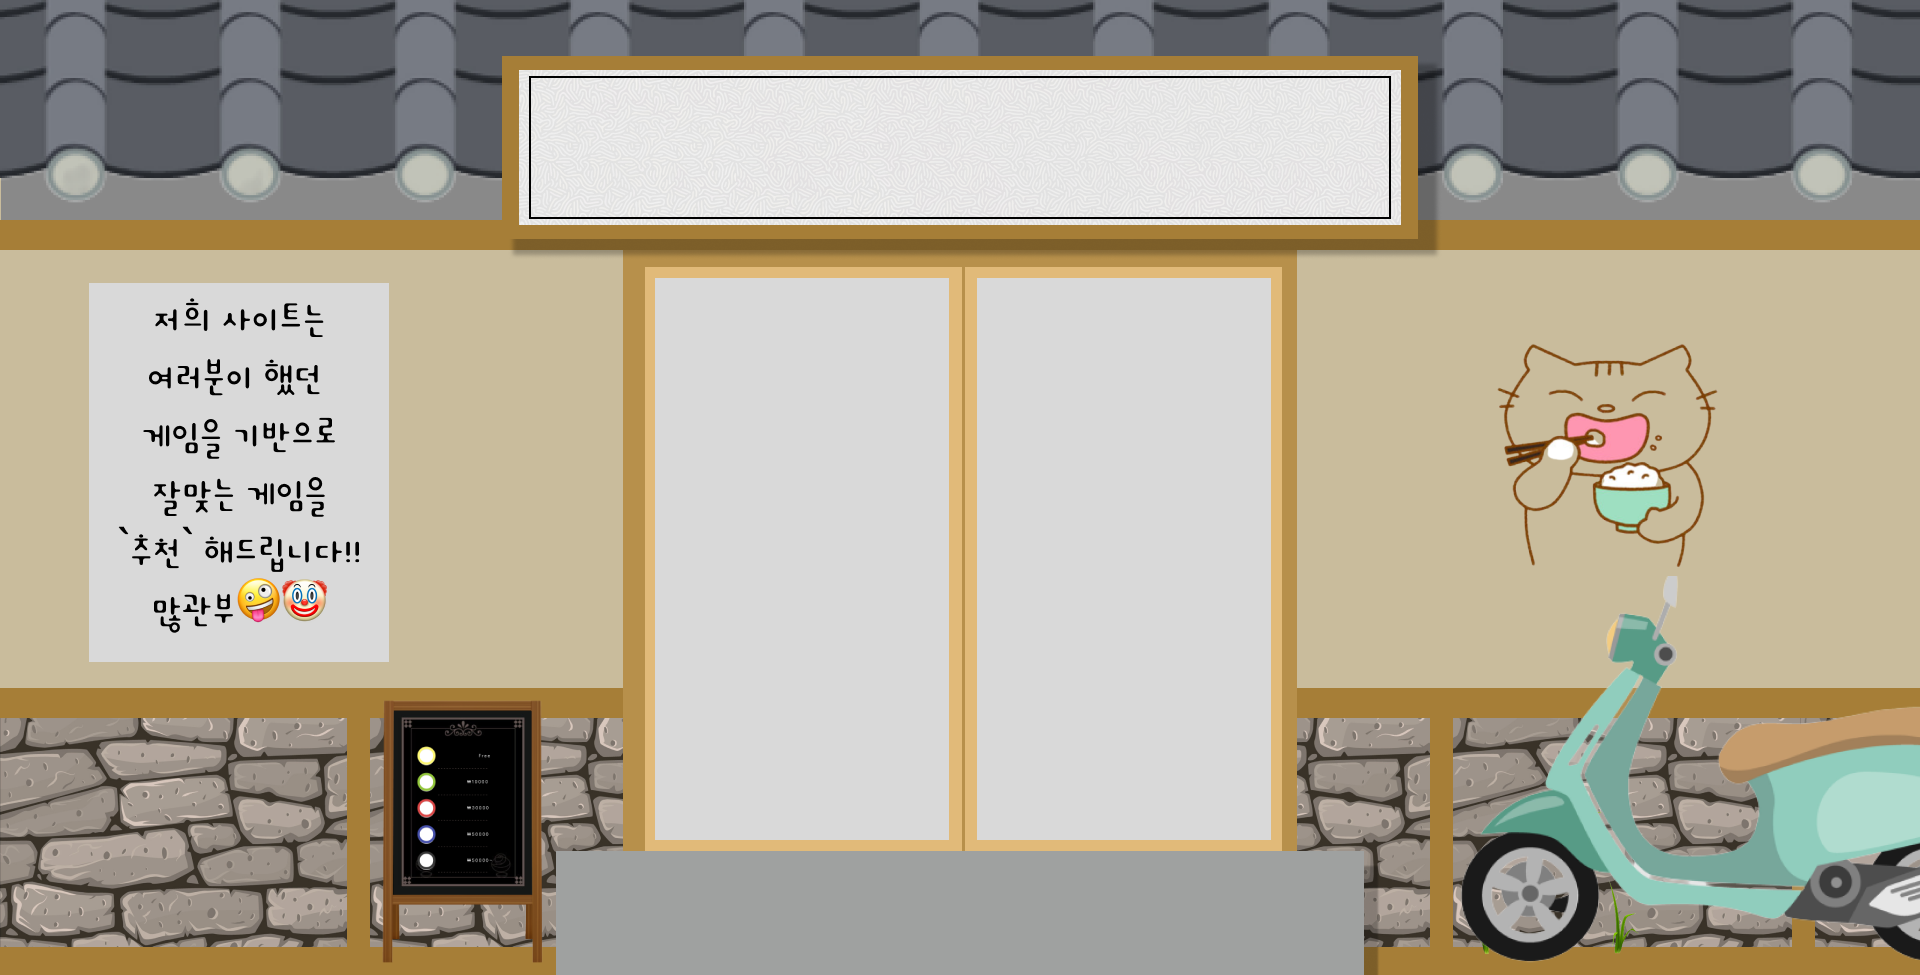
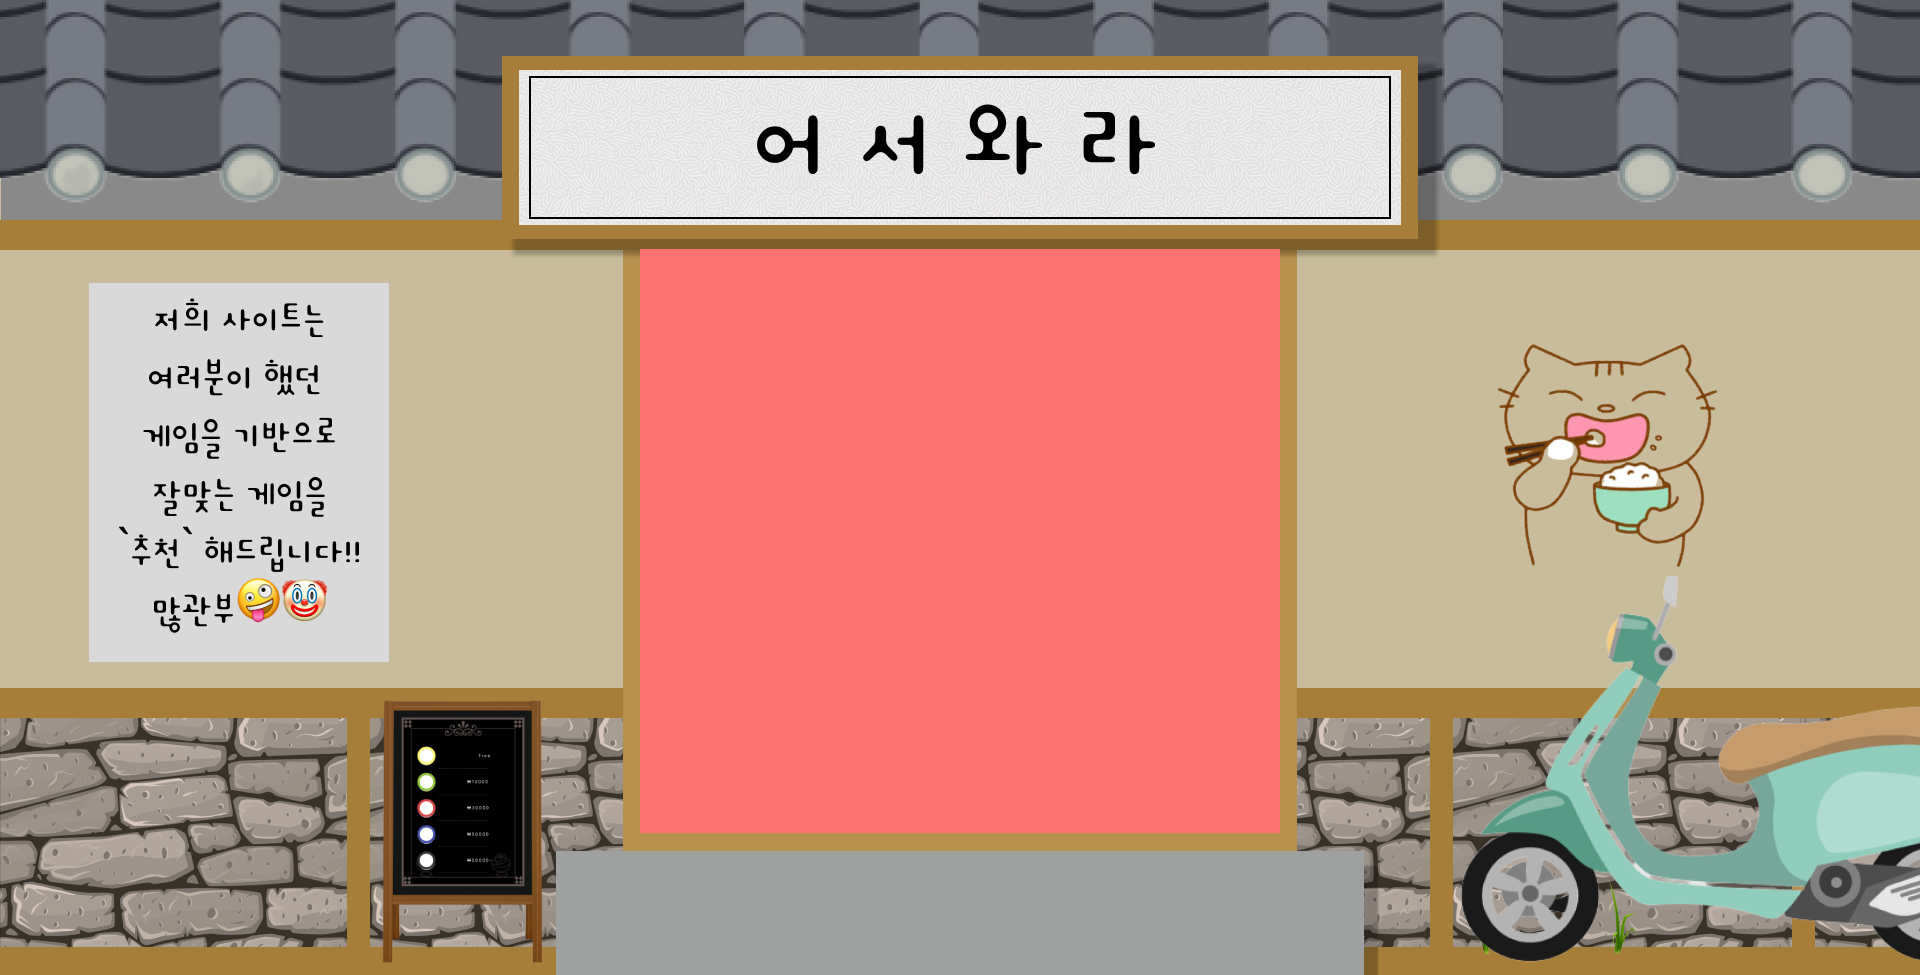
feat: door open
Former-commit-id: 4c424c33f3f180903b803b2bd5b306fd7d0783bd

Changed region(s): [[0.3125, 0.2462, 0.6875, 0.8923], [0.375, 0.0923, 0.5938, 0.1846]]

diff --git a/front/src/pages/mainpage/MainPage.jsx b/front/src/pages/mainpage/MainPage.jsx
@@ -1,9 +1,29 @@
-import React from 'react';
-
+import React, { useRef } from 'react';
+import gsap from 'gsap';
 export default function Mainpage() {
+  const leftDoorRef = useRef(null);
+  const rightDoorRef = useRef(null);
+
+  function doorOpen() {
+    gsap
+      .timeline()
+      .to(leftDoorRef.current, { duration: 1, x: -200 })
+      .to(rightDoorRef.current, { duration: 1, x: 200 }, '-=1');
+  }
+  function doorClose() {
+    gsap
+      .timeline()
+      .to(leftDoorRef.current, { duration: 1, x: 0 })
+      .to(rightDoorRef.current, { duration: 1, x: 0 }, '-=1');
+  }
+
   return (
     <div className="mainPageImg">
-      <div className="steamLoginBtn">
+      <div className="door" onClick={doorClose}>
+        <div className="leftDoor" ref={leftDoorRef}></div>
+        <div className="rightDoor" ref={rightDoorRef}></div>
+      </div>
+      <div className="steamLoginBtn" onClick={doorOpen}>
         <div className="steamTxt">continue with steam login</div>
         <div className="steamImg"></div>
       </div>

diff --git a/front/src/index.css b/front/src/index.css
@@ -15,7 +15,6 @@
 .steamLoginBtn {
   justify-content: center;
   align-items: center;
-  color: #ffffff;
   border-radius: 20px;
   background-color: #595959;
   background-size: cover;
@@ -40,6 +39,29 @@
   background-size: cover;
   height: 6vh;
   width: 3vw;
+}
+.door {
+  position: absolute;
+  width: 33.4vw;
+  height: 63vh;
+  background-color: #747bff;
+  bottom: 11vh;
+  display: block;
+  justify-content: space-between;
+}
+
+.leftDoor {
+  width: 16.7vw;
+  height: 63vh;
+  background-color: #000000;
+  position: absolute;
+}
+.rightDoor {
+  width: 16.7vw;
+  height: 63vh;
+  margin-left: 16.7vw;
+  background-color: #ffffff;
+  position: absolute;
 }
 
 :root {

diff --git a/front/index.html b/front/index.html
@@ -8,6 +8,7 @@
   </head>
   <body>
     <div id="root"></div>
+    
     <script type="module" src="/src/main.jsx"></script>
   </body>
 </html>
